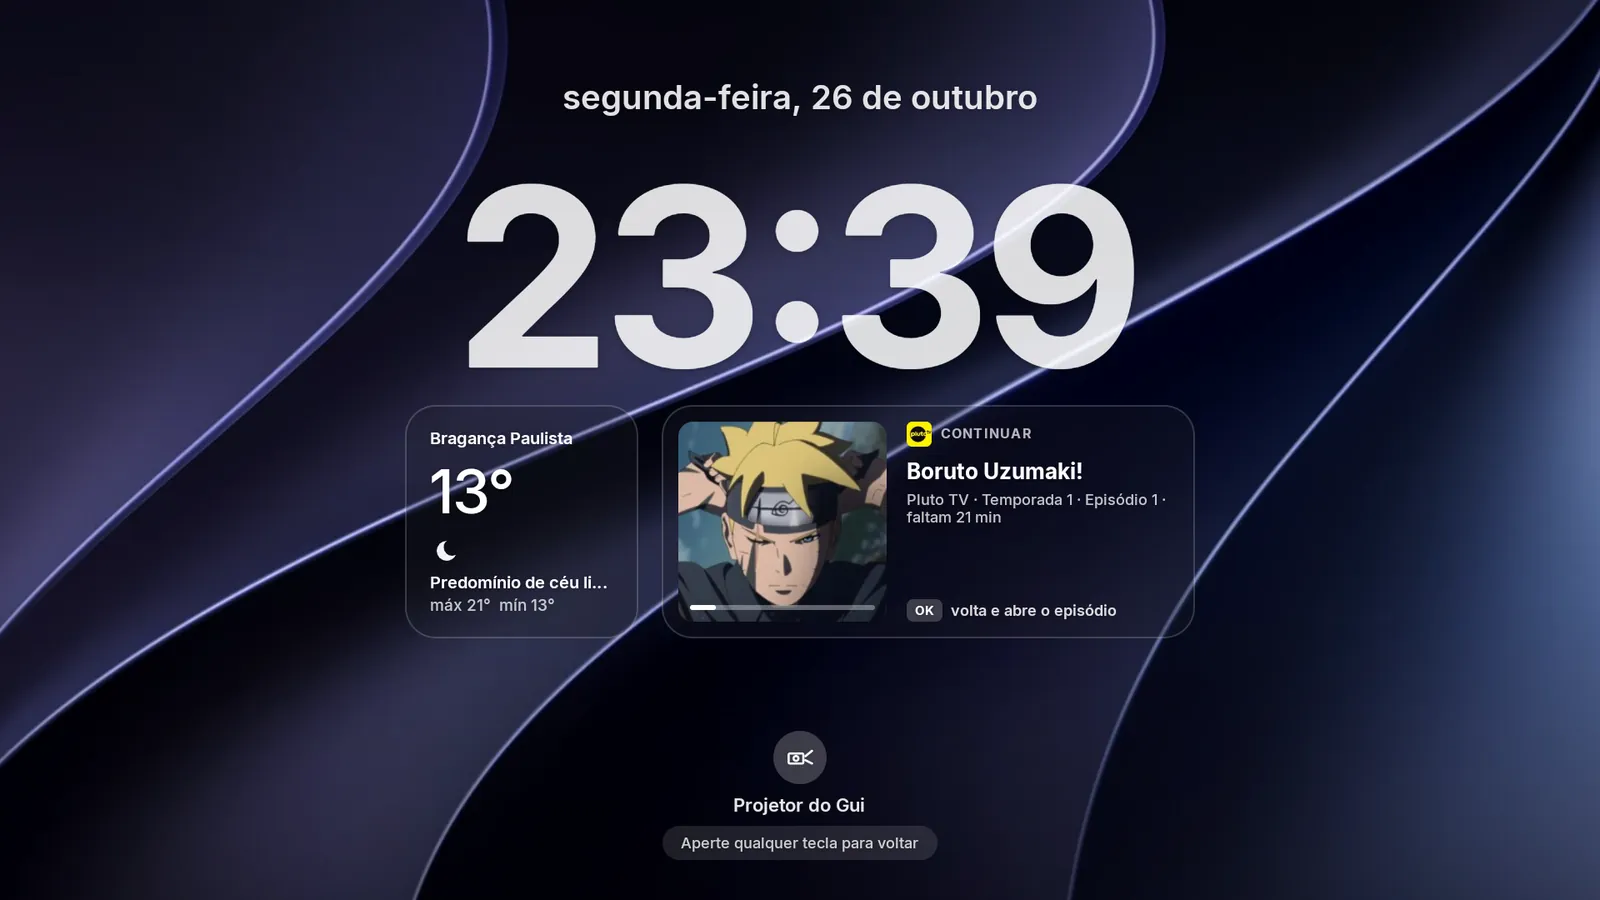
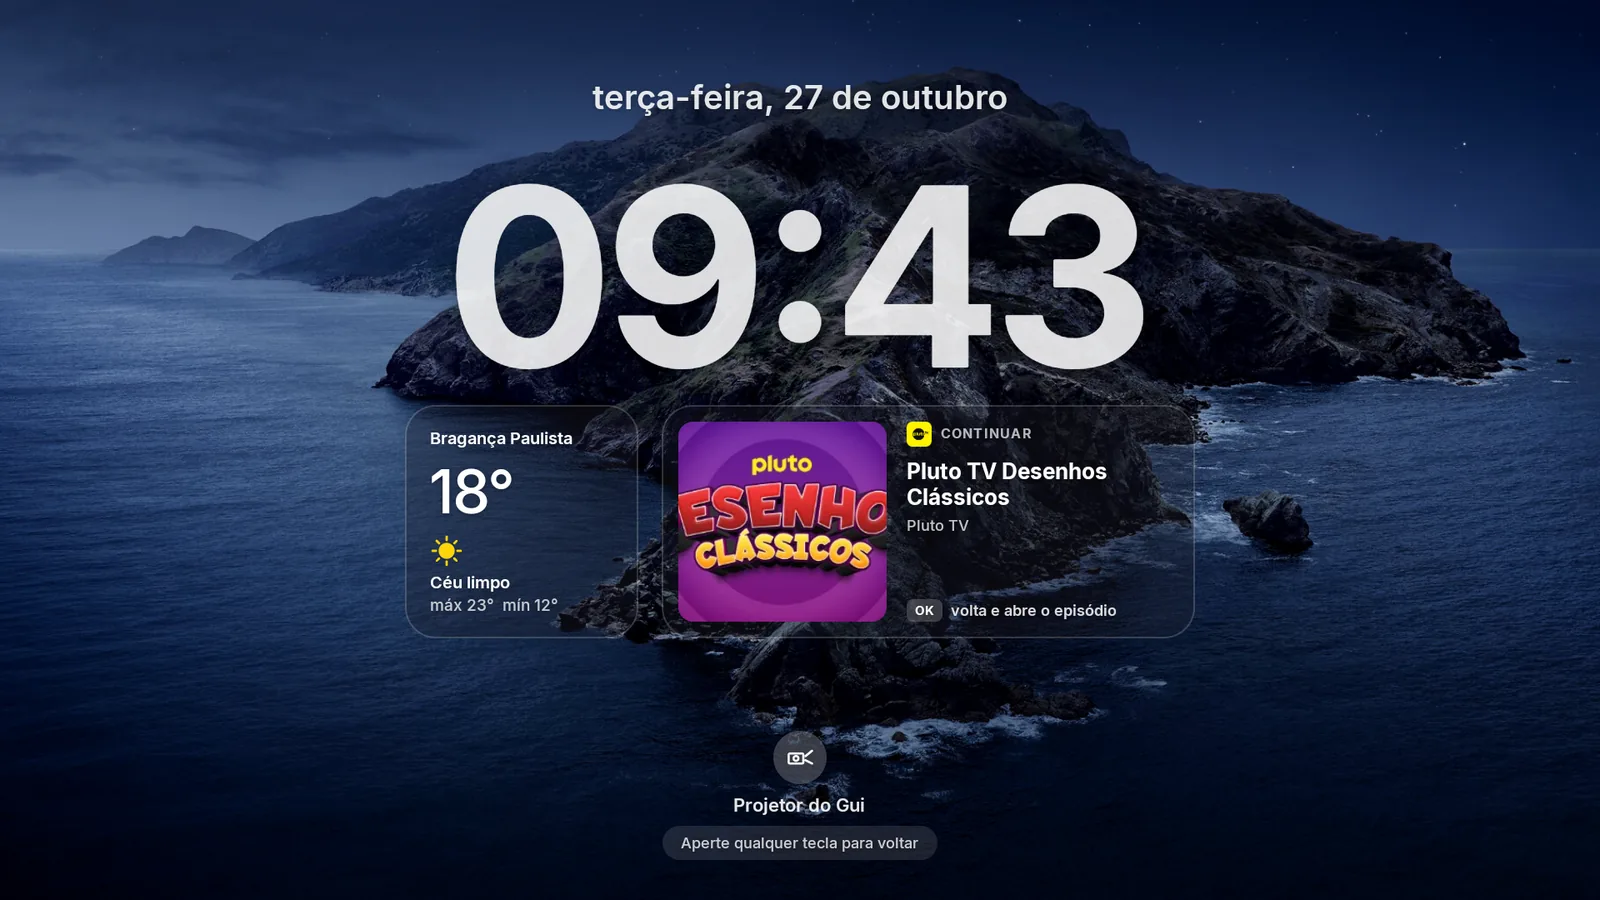
DOCS | FEAT | Capturas atuais do projetor na versão 1.2, sem telas das primeiras versões

diff --git a/README.md b/README.md
@@ -86,25 +86,33 @@ do Mac. Nada disso roda em segundo plano.
 
 ## Telas
 
-| Primeira versão, com degradê | Menu "Início" |
-|---|---|
-| ![Primeira versão: relógio grande no centro e Dock de vidro](docs/capturas/05-inicio-1.0.webp) | ![Menu Início aberto na barra de cima](docs/capturas/06-menu-inicio.webp) |
+Todas tiradas do projetor como ele está hoje, na versão 1.2 do launcher.
 
-| Central de Controle com volume | Calendário |
+**Descanso de tela**, no estilo da tela de bloqueio do macOS: data e hora grandes, widgets de clima e
+do último episódio, e as suas fotos passando com zoom lento. OK sai do descanso e já abre o episódio.
+
+![Descanso de tela com data e hora grandes, widget de clima e widget do episódio](docs/capturas/13-descanso.webp)
+
+| "Continuar assistindo" com um episódio em foco | Menu "Início" |
 |---|---|
-| ![Central de Controle com barra de volume e atalhos do projetor](docs/capturas/07-central-controle.webp) | ![Calendário do mês aberto na barra](docs/capturas/08-calendario.webp) |
+| ![Fileira Continuar assistindo com o Naruto em foco, temporada, episódio e quanto falta](docs/capturas/04-continuar-assistindo.webp) | ![Menu Início aberto na barra de cima](docs/capturas/05-menu-inicio.webp) |
+
+| Central de Controle com volume de verdade | Calendário |
+|---|---|
+| ![Central de Controle com barra de volume e atalhos do projetor](docs/capturas/06-central-controle.webp) | ![Calendário do mês aberto na barra](docs/capturas/07-calendario.webp) |
 
 | Todos os apps, com ícones que preenchem o quadrado | Menu do app |
 |---|---|
-| ![Grade Todos os apps](docs/capturas/09-todos-os-apps.webp) | ![Menu de contexto com Adicionar ao Dock](docs/capturas/10-menu-contexto.webp) |
+| ![Grade Todos os apps](docs/capturas/08-todos-os-apps.webp) | ![Menu do app com Adicionar ao Dock](docs/capturas/09-menu-do-app.webp) |
 
-| Papel de parede | Clima: escolher a cidade |
+| Papel de parede e troca automática | Organizar Dock |
 |---|---|
-| ![Tela de papel de parede com degradês e fotos](docs/capturas/11-papel-de-parede.webp) | ![Busca de cidade do clima](docs/capturas/12-cidade-clima.webp) |
+| ![Tela de papel de parede com degradês, fotos e a fileira Trocar sozinho](docs/capturas/10-papel-de-parede.webp) | ![Lista de apps com a posição de cada um no Dock](docs/capturas/11-organizar-dock.webp) |
 
-| Descanso de tela no estilo da tela de bloqueio do macOS | Clima (versão 1.1) |
-|---|---|
-| ![Descanso com data e hora grandes e widgets de clima e episódio](docs/capturas/13-descanso.webp) | ![Tela inicial da 1.1 com o cartão de clima](docs/capturas/14-clima-1.1.webp) |
+<p align="center">
+  <img src="docs/capturas/12-cidade-do-clima.webp" width="640" alt="Busca da cidade do clima com teclado na tela">
+  <br><em>Cidade do clima: busca com o teclado na tela ou detecção pela internet</em>
+</p>
 
 <sub>Os papéis de parede de fotos nas capturas são os do macOS, enviados do meu computador. Eles não fazem parte do repositório.</sub>
 
